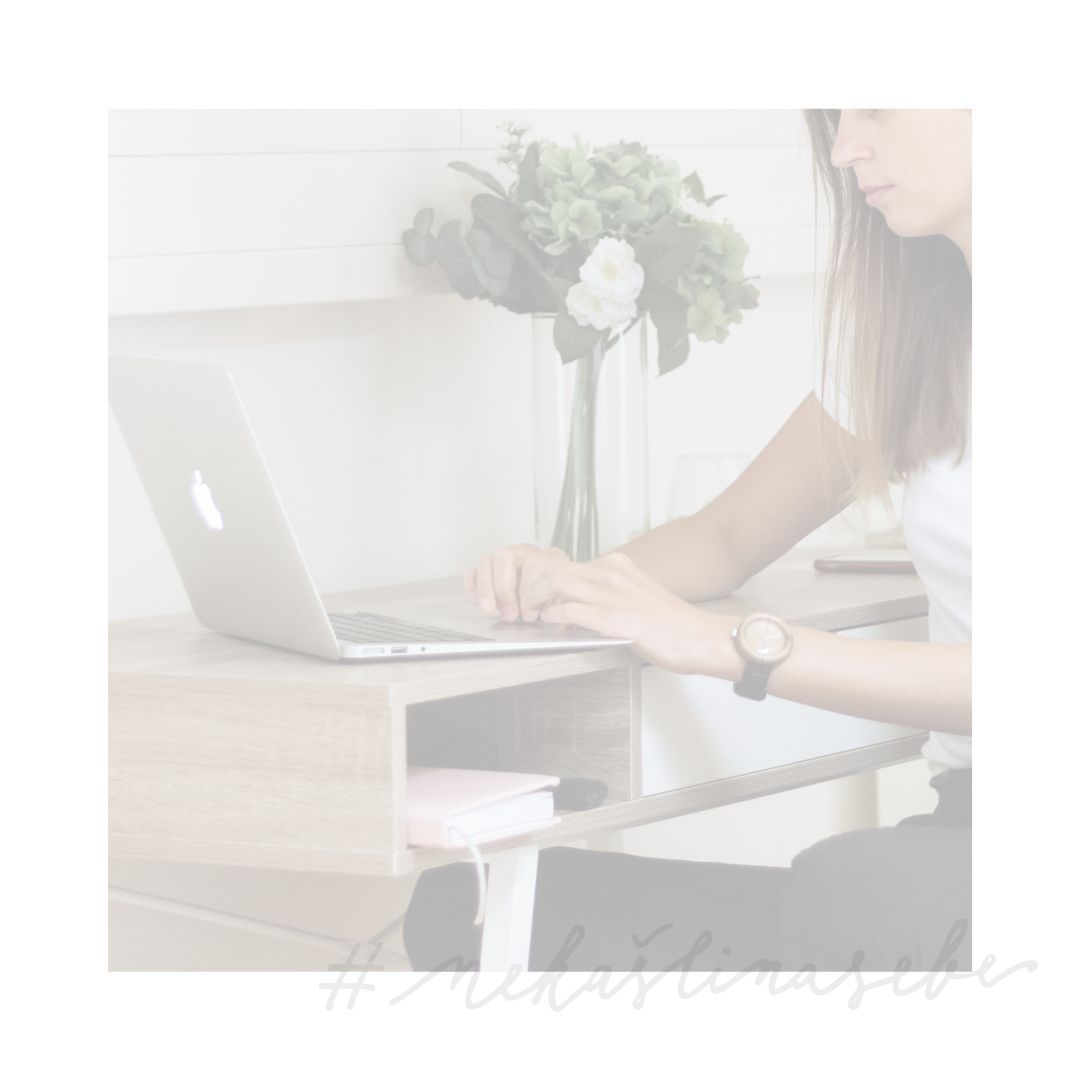
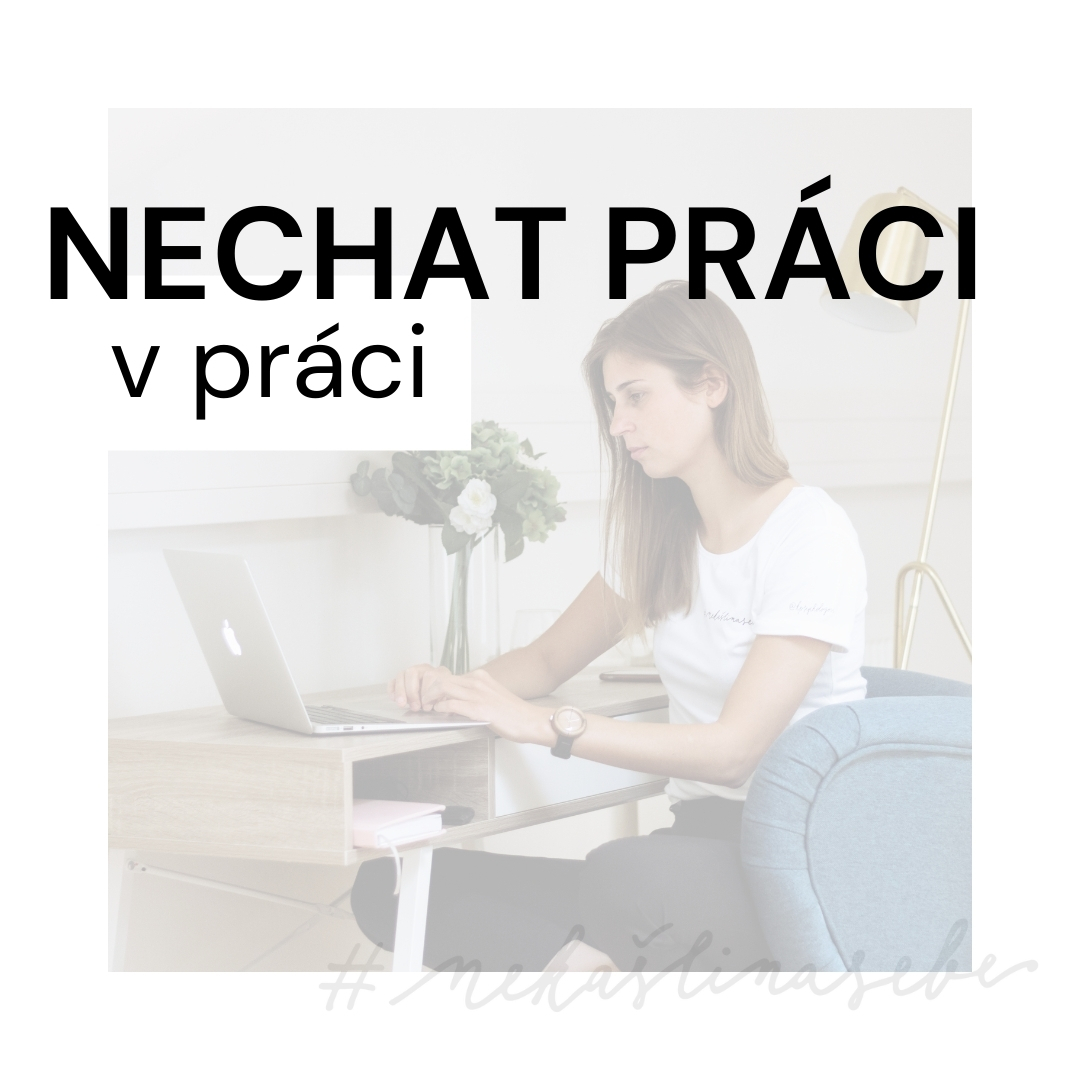
tip3

Changed region(s): [[0.0306, 0.0917, 0.9167, 0.9167], [0.1528, 0.4583, 0.1833, 0.4889]]

diff --git a/tips/25-11/tip3.html b/tips/25-11/tip3.html
@@ -79,8 +79,14 @@
       <div class="container">
         <div class="row mb-8 align-items-center">
           <div class="col-md-8,9" data-aos="fade-up">
-            <h2>3.tip #nekaslinasebe</h2>
-            <p>Tip tady ještě není. </p>
+            <h2>2.tip #nekaslinasebe</h2>
+            <p>Dnešní tip #nekaslinasebe ti pomůže nechat práci v práci. Často nejen na terapiích, ale i v osobním
+              životě slýchávám, že máme <b>v hlavě práci 24/7</b>. Obáváme se, přemýšlíme o ní a i když jsme doma nebo
+              si můžeme odpočinout, tak se jí zabýváme. <b>Co musím zítra udělat? Co jsem ještě nedodělal/a?</b> Znáte
+              to taky? Já jo. Pojďme si ukázat jednoduchou techniku 4:55 drill, která nás může <b>zachránit před
+                hodinami stresu a zahlcením v hlavě</b>. Pravidelné zapojení techniky 4:55 drill umožní odpočinek a
+              využití nepracovního času pro sebe, svou rodinu nebo kamarády. Dnes má tip #nekaslinasebe pouze 2
+              varianty. Tak jdeme na to?</p>
           </div>
         </div>
       </div>
@@ -89,7 +95,7 @@
         <div class="container">
           <div class="row align-items-stretch">
             <div class="col-md-8" data-aos="fade-up">
-              <img src="/assets/img/_template/img_3_big.jpg" alt="Image" class="img-fluid">
+              <img src="/assets/img/25-11/img_2_big.jpg" alt="Image" class="img-fluid">
             </div>
             <div class="col-md-4 ml-auto mb-5" data-aos="fade-up" data-aos-delay="100">
               <div class="sticky-content">
@@ -97,15 +103,26 @@
                 <p class="mb-4"><span class="text-muted">Pokud máš:</span></p>
 
                 <div class="mb-5">
-                  <p><b>1 minutku</b>:</p>
-                  <p><b>5 minut</b>:</p>
-                  <p><b>15 minut</b>:</p>
+                  <p><b>1 minutku</b>: <b>Nastav si budík na 5 minut předtím, než budeš oficiálně odcházet z práci.</b>
+                    Až budík zazvoní, dodělej nejnutnější věc. Vezmi si do ruky malý <b>sticker</b> nebo kousek papíru a
+                    napiš si <b>3 nejdůležitější úkoly na další den.</b> Nalep si sticker na viditelné místo, zaklapni
+                    notebook a jdi domů. </p>
+                  <p><b>5 minut</b>: Následuj minutkový tip. Až ti zazvoní budík, vezmi si k sobě malý sticker. Přelož
+                    ho horizontálně <b>napůl. Do horní části si napiš 3 nejdůležitější konkrétní věci</b>, které je
+                    potřeba zítra udělat. Na <b>dolní část si napiš další možné to do na další den.</b> Nalep si sticker
+                    na viditelné místo na počítači, zaklapni notebook a hurá domů. Ať už si na home office nebo někam
+                    opravdu odcházíš.</p>
                 </div>
               </div>
             </div>
           </div>
           <div class="col-md-12 ml-auto mt-3">
-            <p><b>PS:</b></p>
+            <p><b>PS:</b> Proč technika funguje? <b>Mysl nemá ráda nedokončené úkoly</b>. V psychologii tomu říkáme
+              <b>“efekt Zeigarnikové”</b>. Nedokončené úkoly a věci nám náš mozek automaticky stále dokola připomíná.
+              Ano, dokud je nedokončíme. Jen si vzpomeň na situaci, kdy si měl/a něco v hlavě do té doby, než ses
+              zvedl/a a napsala si to na papír, do diáře nebo jsi to udělal/a. Právě proto jednoduché napsání si
+              zítřejších nejdůležitějších todo může poskytnout mozku rychlou úlevu a dovolit mysli si opravdu
+              zrelaxovat. Jsem v tom s tebou, Terka. </p>
           </div>
           <div class="col-md-12 ml-auto mt-3">
             <p> Vše, co tu vidíš, děláme <b>zadarmo</b>. Kdybys nás chtěl/a podpořit, budeme rádi, když mrkneš na naše
@@ -115,7 +132,7 @@
                   href="https://skillmea.cz/online-kurzy/emocni-fitko-jak-na-emoce">kurz emočního fitka: jak na
                   emoce</a></b>, který tě naučí efektivně pracovat s emocemi. Právě díky tomu budeme moct pokračovat v
               poskytování
-              každodenních #nekaslinasebe tipů zdarma. Předem moc děkujeme.
+              každodenních #nekaslinasebe tipů zdarma. <b>Novinkou je knížka <a href="https://obchod.portal.cz/hry-a-procvicovani/nekasli-na-sebe" target="_blank">Nekašli na sebe: Tvůj parťák na cestě s emocemi.</a></b> Předem moc děkujeme.
             </p>
           </div>
         </div>
